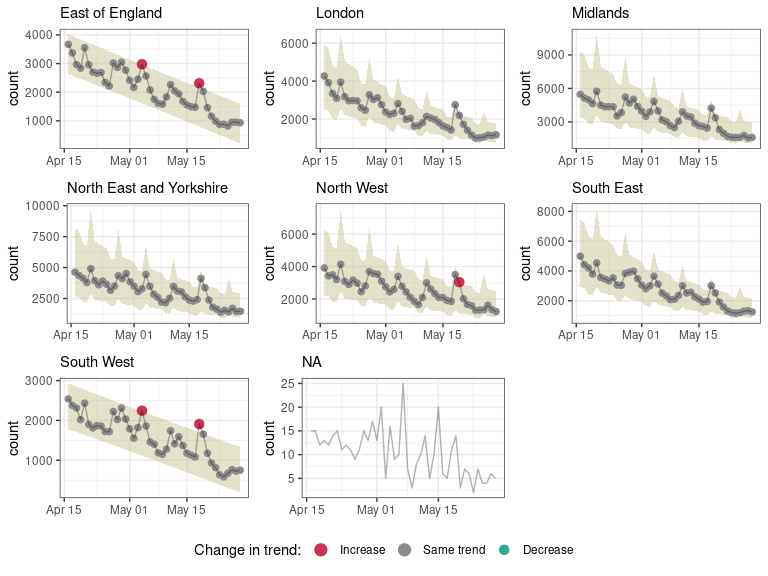
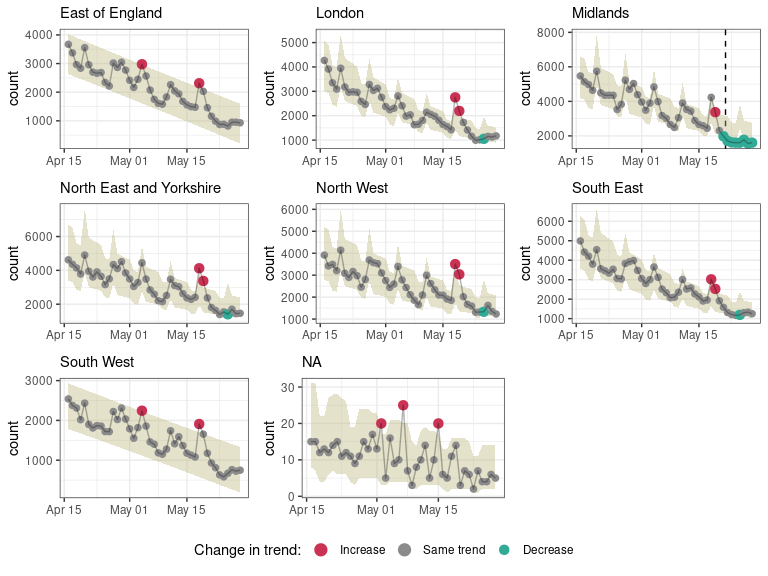
more fixes due to different branches

diff --git a/README.md b/README.md
@@ -121,51 +121,50 @@ counts_overall <- pathways_recent %>%
 res <- asmodee(counts_overall, models, method = evaluate_aic)
 res
 #> $k
-#> [1] 0
+#> [1] 7
 #> 
 #> $model
 #> Fitted trending model:
 #> 
 #> 
-#> Call:  MASS::glm.nb(formula = count ~ day + weekday, data = data, init.theta = 43.15973225, 
+#> Call:  MASS::glm.nb(formula = count ~ day + weekday, data = data, init.theta = 76.80468966, 
 #>     link = log)
 #> 
 #> Coefficients:
 #>    (Intercept)             day   weekdaymonday  weekdayweekend  
-#>       11.08605        -0.02695         0.20493        -0.13056  
+#>       10.81062        -0.02057         0.24398        -0.11588  
 #> 
-#> Degrees of Freedom: 42 Total (i.e. Null);  39 Residual
-#> Null Deviance:       250.7 
-#> Residual Deviance: 43.18     AIC: 806.4
+#> Degrees of Freedom: 35 Total (i.e. Null);  32 Residual
+#> Null Deviance:       186.5 
+#> Residual Deviance: 36.09     AIC: 665.4
 #> $n_outliers
-#> [1] 0
+#> [1] 9
 #> 
 #> $n_outliers_train
-#> [1] 0
+#> [1] 2
 #> 
 #> $n_outliers_recent
-#> [1] 0
+#> [1] 7
 #> 
 #> $p_value
-#> [1] 0.8898169
+#> [1] 4.076898e-05
 #> 
 #> $results
-#> # A tibble: 43 x 12
+#> # A tibble: 43 x 10
 #> # Groups:   date, day [43]
-#>    date         day weekday count   pred `lower-ci` `upper-ci` `lower-pi`
-#>    <date>     <int> <fct>   <int>  <dbl>      <dbl>      <dbl>      <dbl>
-#>  1 2020-04-16    29 rest_o… 29497 29866.     27061.     32962.      17496
-#>  2 2020-04-17    30 rest_o… 27007 29072.     26418.     31993.      17080
-#>  3 2020-04-18    31 weekend 25453 24835.     22278.     27687.      14403
-#>  4 2020-04-19    32 weekend 23387 24175.     21733.     26891.      14050
-#>  5 2020-04-20    33 monday  29287 32913.     28675.     37777.      18540
-#>  6 2020-04-21    34 rest_o… 23134 26101.     23980.     28409.      15504
-#>  7 2020-04-22    35 rest_o… 21803 25407.     23402.     27583.      15130
-#>  8 2020-04-23    36 rest_o… 22298 24731.     22837.     26783.      14764
-#>  9 2020-04-24    37 rest_o… 22027 24074.     22283.     26009.      14406
-#> 10 2020-04-25    38 weekend 18861 20565.     18697.     22620.      12087
-#> # … with 33 more rows, and 4 more variables: `upper-pi` <dbl>, observed <int>,
-#> #   outlier <lgl>, classification <fct>
+#>    date         day weekday count   pred `lower-pi` `upper-pi` observed outlier
+#>    <date>     <int> <fct>   <int>  <dbl>      <dbl>      <dbl>    <int> <lgl>  
+#>  1 2020-04-16    29 rest_o… 29497 27288.      21520      33729    29497 FALSE  
+#>  2 2020-04-17    30 rest_o… 27007 26733.      21082      33043    27007 FALSE  
+#>  3 2020-04-18    31 weekend 25453 23323.      18392      28829    25453 FALSE  
+#>  4 2020-04-19    32 weekend 23387 22848.      18018      28243    23387 FALSE  
+#>  5 2020-04-20    33 monday  29287 32078.      25299      39648    29287 FALSE  
+#>  6 2020-04-21    34 rest_o… 23134 24621.      19417      30434    23134 FALSE  
+#>  7 2020-04-22    35 rest_o… 21803 24120.      19021      29815    21803 FALSE  
+#>  8 2020-04-23    36 rest_o… 22298 23629.      18634      29208    22298 FALSE  
+#>  9 2020-04-24    37 rest_o… 22027 23148.      18254      28613    22027 FALSE  
+#> 10 2020-04-25    38 weekend 18861 20196.      15925      24965    18861 FALSE  
+#> # … with 33 more rows, and 1 more variable: classification <fct>
 #> 
 #> attr(,"class")
 #> [1] "trendbreaker" "list"
@@ -205,66 +204,8 @@ models <- list(
 
 # analyses on all data
 res <- asmodee(dat, models, method = evaluate_aic)
-#> Note: incidence2 class dropped in returned object
-#> 
-#> Note: incidence2 class dropped in returned object
-#> 
-#> Note: incidence2 class dropped in returned object
-#> 
-#> Note: incidence2 class dropped in returned object
-#> 
-#> Note: incidence2 class dropped in returned object
-#> 
-#> Note: incidence2 class dropped in returned object
-#> 
-#> Note: incidence2 class dropped in returned object
-#> 
-#> Note: incidence2 class dropped in returned object
-#> 
-#> Note: incidence2 class dropped in returned object
-#> 
-#> Note: incidence2 class dropped in returned object
-#> Warning in qnbinom(alpha/2, mu = data$`lower-ci`, size = theta + qnorm(alpha/2)
-#> * : NaNs produced
-#> Warning in qnbinom(1 - alpha/2, mu = data$`upper-ci`, size = theta +
-#> qnorm(alpha/2) * : NaNs produced
-#> Warning in qnbinom(alpha/2, mu = data$`lower-ci`, size = theta + qnorm(alpha/2)
-#> * : NaNs produced
-#> Warning in qnbinom(1 - alpha/2, mu = data$`upper-ci`, size = theta +
-#> qnorm(alpha/2) * : NaNs produced
-#> Warning in qnbinom(alpha/2, mu = data$`lower-ci`, size = theta + qnorm(alpha/2)
-#> * : NaNs produced
-#> Warning in qnbinom(1 - alpha/2, mu = data$`upper-ci`, size = theta +
-#> qnorm(alpha/2) * : NaNs produced
-#> Warning in qnbinom(alpha/2, mu = data$`lower-ci`, size = theta + qnorm(alpha/2)
-#> * : NaNs produced
-#> Warning in qnbinom(1 - alpha/2, mu = data$`upper-ci`, size = theta +
-#> qnorm(alpha/2) * : NaNs produced
-#> Warning in qnbinom(alpha/2, mu = data$`lower-ci`, size = theta + qnorm(alpha/2)
-#> * : NaNs produced
-#> Warning in qnbinom(1 - alpha/2, mu = data$`upper-ci`, size = theta +
-#> qnorm(alpha/2) * : NaNs produced
-#> Warning in qnbinom(alpha/2, mu = data$`lower-ci`, size = theta + qnorm(alpha/2)
-#> * : NaNs produced
-#> Warning in qnbinom(1 - alpha/2, mu = data$`upper-ci`, size = theta +
-#> qnorm(alpha/2) * : NaNs produced
-#> Warning in qnbinom(alpha/2, mu = data$`lower-ci`, size = theta + qnorm(alpha/2)
-#> * : NaNs produced
-#> Warning in qnbinom(1 - alpha/2, mu = data$`upper-ci`, size = theta +
-#> qnorm(alpha/2) * : NaNs produced
-#> Warning in qnbinom(alpha/2, mu = data$`lower-ci`, size = theta + qnorm(alpha/2)
-#> * : NaNs produced
-#> Warning in qnbinom(1 - alpha/2, mu = data$`upper-ci`, size = theta +
-#> qnorm(alpha/2) * : NaNs produced
-#> Warning in qnbinom(alpha/2, mu = data$`lower-ci`, size = theta + qnorm(alpha/2)
-#> * : NaNs produced
-#> Warning in qnbinom(1 - alpha/2, mu = data$`upper-ci`, size = theta +
-#> qnorm(alpha/2) * : NaNs produced
 
 plot(res, "date")
-#> Warning in max(ids, na.rm = TRUE): no non-missing arguments to max; returning
-#> -Inf
-#> Warning: Removed 43 rows containing missing values (geom_point).
 ```
 
 <img src="man/figures/README-incidence2-1.png" style="display: block; margin: auto;" />
